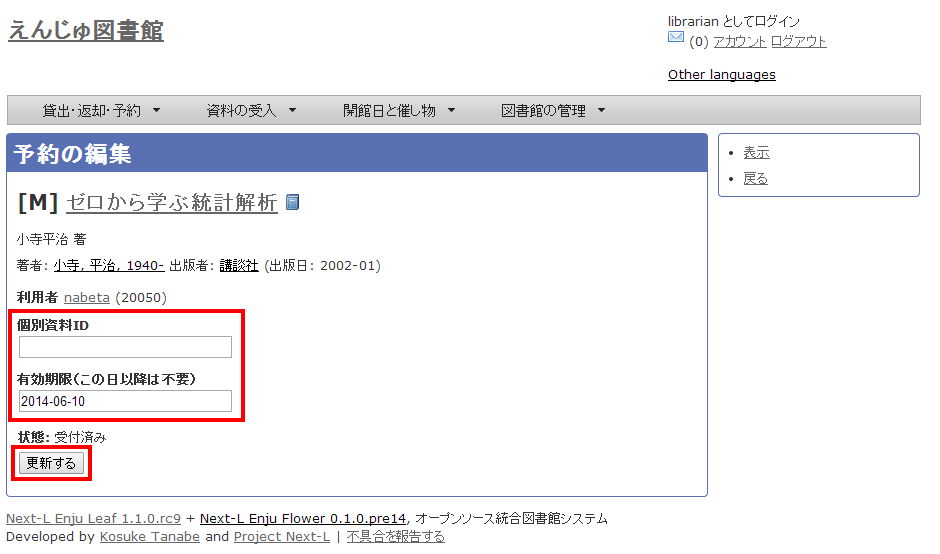
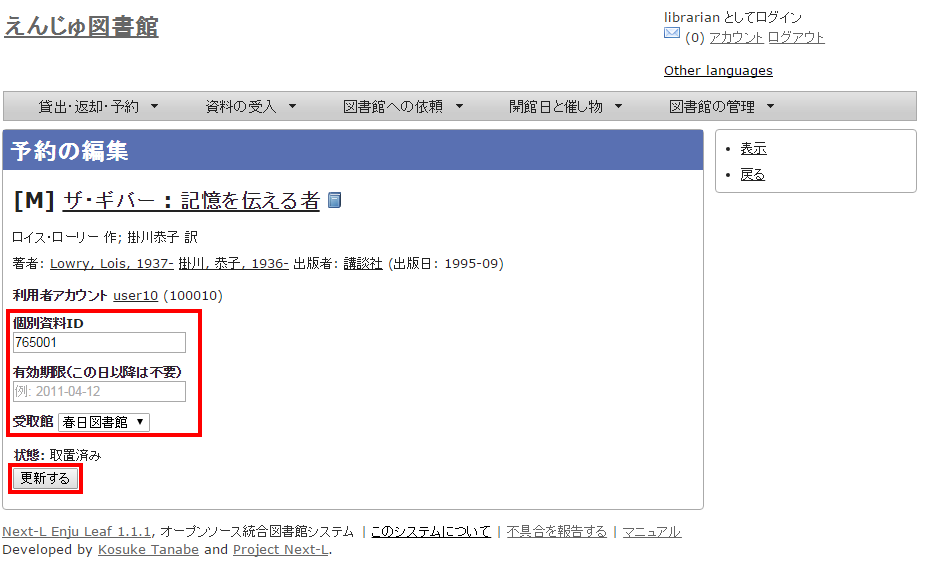
運用マニュアル6-3-6 のスクリーンショットを更新

Changed region(s): [[0.0, 0.1227, 0.9915, 1.0], [0.7126, 0.0, 0.8985, 0.0921], [0.0, 0.0307, 0.1859, 0.0921]]

diff --git a/enju_operation_6.md b/enju_operation_6.md
@@ -540,7 +540,7 @@ TSV形式のデータファイル（TSVファイル）とは、
 
 #### 2. 編集したい場合は予約の[編集]を、削除したい場合は[削除]をクリックします。
 
-![予約の編集等](assets/images/image_operation_202.png)
+![予約の編集等](assets/images/image_operation_202_2.png)
 
 #### 3. 編集する場合は、有効期限などを変更して［予約を更新］ボタンをクリックします。 
 
